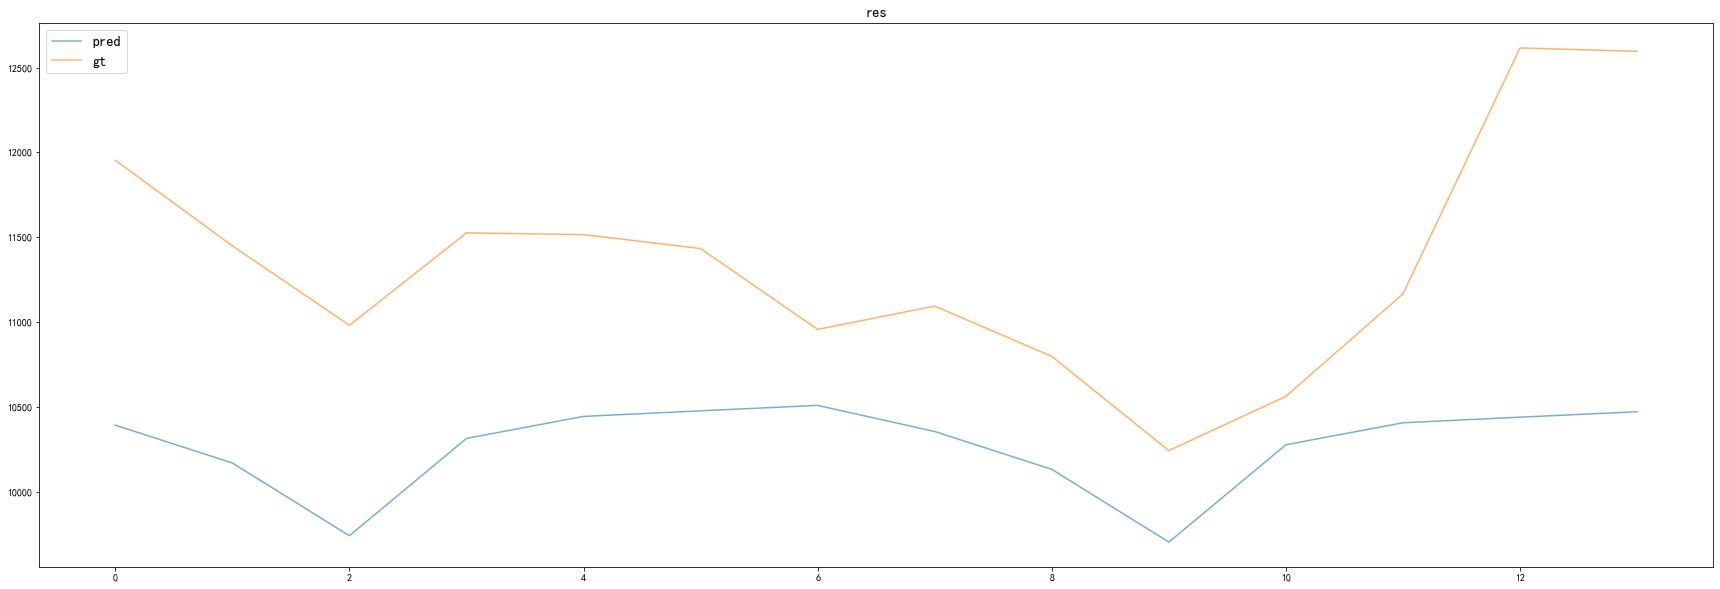
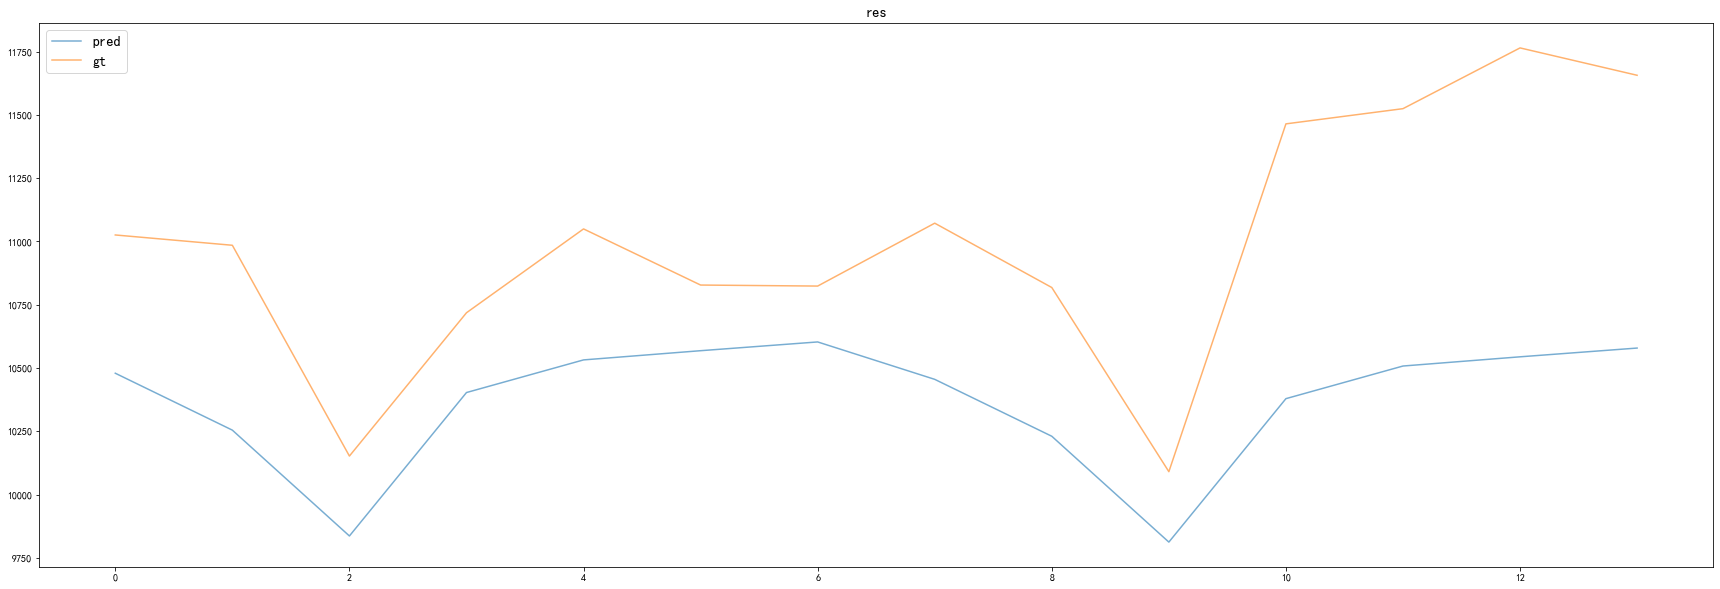
update

diff --git a/model/mytest.py b/model/mytest.py
@@ -1,9 +1,3 @@
-# -*- coding: utf-8 -*-
-"""
-Created on Sat Aug 14 20:38:27 2021
-
-@author: cty
-"""
 import os,sys
 import datetime
 import math
@@ -13,11 +7,16 @@ import numpy as np
 from matplotlib import pyplot as plt
 import joblib
 
-import optuna
-from sklearn.model_selection import train_test_split,KFold
-from sklearn.metrics import mean_squared_error,mean_absolute_error,mean_absolute_percentage_error
-from prophet import Prophet
-
+from sklearn.preprocessing import MinMaxScaler
+from sklearn.metrics import mean_squared_error,mean_absolute_percentage_error,mean_pinball_loss
+from tqdm import tqdm
+import torch
+import torch.autograd as autograd
+import torch.nn as nn
+import torch.nn.functional as F
+import torch.optim as optim
+from torch.optim.lr_scheduler import StepLR
+from torch.autograd import Variable
 import warnings
 warnings.filterwarnings("ignore")
 
@@ -33,58 +32,190 @@ warnings.filterwarnings("ignore")
 # testset=df.loc[(df['date'] >= pd.to_datetime('2022-5-31')) & (df['date'] < pd.to_datetime('2022-8-23'))]
 # df=df.loc[:,~df.columns.str.contains('Unnamed')]
 # group=df.groupby(df['date'].apply(lambda x:x.split()[0]))
-    
 
+torch.manual_seed(0)
+np.random.seed(0)
+device = torch.device("cuda" if torch.cuda.is_available() else "cpu")
+
+class LstmPyorch(nn.Module):
+    def __init__(self, fea_size, seq_len, hidden_size, num_layers, output_size, batch_size):
+        super().__init__()
+        # self.trial=trial
+        # hidden_size=self.trial.suggest_int('hidden_size', 1,20,step=1),
+        # num_layer=self.trial.suggest_int('num_layer', 1,10,step=1),        
+        self.fea_size = fea_size
+        self.seq_len=seq_len
+        self.hidden_size = hidden_size
+        self.num_layers = num_layers
+        self.output_size = output_size
+        self.num_directions = 1 # 单向LSTM
+        self.batch_size = batch_size
+        self.lstm = nn.LSTM(self.fea_size, self.hidden_size, self.num_layers, batch_first=True)
+        self.linear = nn.Linear(self.hidden_size, self.output_size)
+
+    def forward(self, x):
+        h_0 = torch.rand(self.num_directions * self.num_layers, x.shape[0], self.hidden_size).to(device)*x[0].std()+x[0].mean()
+        c_0 = torch.rand(self.num_directions * self.num_layers, x.shape[0], self.hidden_size).to(device)*x[0].std()+x[0].mean()
+        output, (hidden, cell) = self.lstm(x,(h_0,c_0)) # [16, 96, 3]
+        pred = self.linear(output)  # [16, 96, 1]
+        return pred    
+
+class LSTM():
+    
+    def __init__(self):
+        pass
+        
+    def build_model(self,x_train):
+        self.model=LstmPyorch(fea_size=x_train.shape[1],
+                         seq_len=96*14,
+                         hidden_size=5,
+                         num_layers=1,
+                         output_size=1, 
+                         batch_size=32).to(device)
+        return self.model      
+
+
+    def train(self, x_train, y_train, x_val, y_val):###df包含label
+        self.model = self.build_model(x_train)
+        # 先转换成torch能识别的dataset
+        import torch.utils.data as data
+        
+        self.scaler_x = MinMaxScaler(feature_range=(0, 1))
+        self.scaler_y = MinMaxScaler(feature_range=(0, 1))
+        x_train = self.scaler_x.fit_transform(x_train)
+        y_train = self.scaler_y.fit_transform(y_train[:,None])      
+        x_val = self.scaler_x.transform(x_val)
+        y_val = self.scaler_y.transform(y_val[:,None])
+
+        x=torch.Tensor(x_train.reshape(-1,self.model.seq_len,x_train.shape[1]))
+        y=torch.Tensor(y_train.reshape(-1,self.model.seq_len,1))
+        trainset = data.TensorDataset(x, y)
+        train_loader = data.DataLoader(dataset=trainset,
+                                       batch_size=self.model.batch_size,
+                                       shuffle=False, ##x_train已经打乱过了
+                                       num_workers=1,
+                                       drop_last=True)
+        
+        x=torch.Tensor(x_val.reshape(-1,self.model.seq_len,x_val.shape[1]))
+        y=torch.Tensor(y_val.reshape(-1,self.model.seq_len,1))        
+        valset = data.TensorDataset(x, y)
+        val_loader = data.DataLoader(dataset=valset,
+                                     batch_size=self.model.batch_size,
+                                     shuffle=False, ##x_val已经打乱过了
+                                     num_workers=1,
+                                     drop_last=True)        
+        loss_fn = nn.MSELoss()
+        optimizer = torch.optim.Adam(self.model.parameters(), lr=1e-3,
+                                     weight_decay=0)
+        # optimizer = torch.optim.SGD(self.model.parameters(), lr=args.lr,
+        #                             momentum=0.9, weight_decay=args.weight_decay)
+        # scheduler = StepLR(optimizer, step_size=50, gamma=0.1)
+        
+        for epoch in tqdm(range(1000)):
+            # 训练步骤开始
+            self.model.train()
+            for x,y in train_loader:
+                x=x.to(device)
+                y=y.to(device)
+                pred = self.model(x)
+                loss = loss_fn(pred, y)           
+                # 优化器优化模型
+                optimizer.zero_grad()
+                loss.backward()
+                optimizer.step()
+            # res=abs(pred-y)/y
+            # print('train mape:',float(1-res.mean()))
+            
+            # pred=pred.detach().cpu().numpy().reshape(-1,1)
+            # y=y.cpu().numpy().reshape(-1,1)
+            # pred=pd.DataFrame(pred)
+            # y=pd.DataFrame(y.reshape(-1))
+            # res=pd.concat([pred,y],axis=1)
+            # res.columns=['pred','gt']
+            # from my_utils.plot import plot_without_date
+            # plot_without_date(res[:600],'res',cols = ['pred','gt'])             
+
+            # scheduler.step()
+            
+            # if epoch%10==0:
+            #     # 验证步骤开始
+            #     self.model.eval()
+            #     val_mape = []
+            #     for x,y in val_loader:
+            #         pred = self.model(x)
+            #         res=abs(pred-y)/y
+            #         val_mape.append(float(1-res.mean()))
+            #     print('val mean loss:',np.mean(val_mape))
+
+    def test(self,x_test, y_test, model):   
+        self.model.eval()
+        x_test = self.scaler_x.transform(x_test)
+        import torch.utils.data as data
+        x=torch.Tensor(x_test.reshape(-1,self.model.seq_len,x_test.shape[1]))
+        y=torch.Tensor(y_test.values.reshape(-1,self.model.seq_len,1))  
+        testset = data.TensorDataset(x, y)
+        test_loader = data.DataLoader(dataset=testset,
+                                       batch_size=testset.tensors[0].shape[0], ##相当于整个batch
+                                       shuffle=False, ##x_train已经打乱过了
+                                       num_workers=1,
+                                       drop_last=False)    
+        for x,y in test_loader:
+            x=x.to(device)
+            y=y.to(device)
+            pred = self.model(x)
+            pred=pred.detach().cpu().numpy().reshape(-1,1)
+            pred=self.scaler_y.inverse_transform(pred)
+            y=y.cpu().numpy().reshape(-1,1)
+            res=abs(pred-y)/y
+            print('test mape:',float(1-res.mean()))   
+        pred=pd.DataFrame(pred)
+        y=pd.DataFrame(y.reshape(-1))
+        res=pd.concat([pred,y],axis=1)
+        res.columns=['pred','gt']
+        from my_utils.plot import plot_without_date
+        plot_without_date(res[:600],'res',cols = ['pred','gt']) 
+        self.res=res
+        
 if __name__=='__main__':
     ##项目目录加入环境变量
     project_path=os.path.dirname(os.path.dirname(__file__))
     sys.path.append(project_path)
     ####Step1:read raw data
-    np.random.seed(10)
-    
     from dataset import Dataset
     dataset=Dataset()
-    df=dataset.load_system2().data
-    from my_utils.dataprocess import points_to_days
-    df=points_to_days(df,cols=['tmp','target'])
+    # df=dataset.load_system_tang(mode='ts',y_shift=96).data
+    # df=dataset.load_wind1(mode='ts',y_shift=96).data
+    df=dataset.load_system2(mode='ts',y_shift=96*14).data
+    # df=df[['date','load','target']]
+    df['day-1']=df['load'].shift(96*1)
+    df['day-2']=df['load'].shift(96*2)
+    df['day-3']=df['load'].shift(96*3)
+    df=df.dropna()
+    # df=df.loc[96:,:]
+    # df=df[['date','ws30','target']]
+    ####Step3:有效的特征工程feature
+    # from utils.feature import date_to_timeFeatures, wd_to_sincos_wd
+    # df=date_to_timeFeatures(df)
+    # df=wd_to_sincos_wd(df,['dir_50_XXL'],delete=True)
     
-    # df=df.iloc[:64704,:]
-    # df.columns=['y','ds']
-    # trainset=df.iloc[:35040,:]
-    # testset=df.iloc[35040:,:]     
-    ####Step2:data process
-    #method1:直接插值补全，以此对比和dataclean的效果
-    # df=df.loc[:,~df.columns.str.contains('Unnamed')]
-    # df.interpolate(method="linear",axis=0,inplace=True)
-    df.rename(columns={'date':'ds','mean_target':'y'}, inplace=True)###prophet的命名要求
-    df['ds']=pd.to_datetime(df['ds'])
-    # df['ds']=df['ds']-pd.Timedelta(1,unit='d') ##nextdaydate日期要减一天
-    # df['cap'] = 80000
-    trainset=df.iloc[:-14,:] 
-    testset=df.iloc[-14:,:] ##预测最后14天
+    ####Step4: 划分数据集
+    ##要按天打乱，确保train,val,test同分布
+    from my_utils.tools import dataset_split
+    del df['date']
+    test_ratio=14/(df.shape[0]/96) ##这里由于按比例划分，小数计算不精确，导致用写13，testset才是14天
+    df=df.reset_index(drop=True)
+    trainset,valset,testset=dataset_split(df,n=96*14,ratio=[1-2*test_ratio,test_ratio,test_ratio],mode=2)
+    trainset=trainset.reset_index(drop=True)
+    valset=valset.reset_index(drop=True)
+    testset=testset.reset_index(drop=True)
     
+    y_train=trainset.pop('target')
+    x_train=trainset
+    y_val=valset.pop('target')
+    x_val=valset
+    y_test=testset.pop('target')
+    x_test=testset  
     
-    # length=int(len(df)*0.8)
-    # trainset=df.iloc[:length]
-    # testset=df.iloc[length:,:]         
-        
-    # model = Prophet(growth='logistic')
-    model = Prophet()
-    model.add_country_holidays(country_name='CN') ##增加节假日
-    model.fit(trainset)
-    future = model.make_future_dataframe(periods=14,freq='d',include_history=False)
-    # future['cap']=80000
-    # forecast = model.predict(future)
-    forecast = model.predict(future)
-    # forecast[['ds', 'yhat', 'yhat_lower', 'yhat_upper']].tail()
-    fig1 = model.plot(forecast)
-    fig2 = model.plot_components(forecast)        
-    
-    pred=forecast['yhat']
-    gt=testset['y']
-    loss=1-mean_absolute_percentage_error(gt.values, pred.values)
-    print('loss:',loss)
-    res=pd.concat([pred.reset_index(drop=True),gt.reset_index(drop=True)],axis=1)
-    res.columns=['pred','gt']
-    from my_utils.plot import plot_without_date
-    plot_without_date(res,'res',cols = ['pred','gt'])         
+    lstm=LSTM()
+    lstm.train(x_train, y_train, x_val, y_val)
+    lstm.test(x_test,y_test,lstm.model)

diff --git a/model/prophet_lstm_for_longtime.py b/model/prophet_lstm_for_longtime.py
@@ -120,7 +120,7 @@ class LSTM():
         #                             momentum=0.9, weight_decay=args.weight_decay)
         # scheduler = StepLR(optimizer, step_size=50, gamma=0.1)
         
-        for epoch in tqdm(range(300)):
+        for epoch in tqdm(range(500)):
             # 训练步骤开始
             self.model.train()
             for x,y in train_loader:
@@ -214,8 +214,8 @@ if __name__=='__main__':
     df['ds']=pd.to_datetime(df['ds'])
     # df['ds']=df['ds']-pd.Timedelta(1,unit='d') ##nextdaydate日期要减一天
     # df['cap'] = 80000
-    trainset_prophet=df.iloc[:-14,:] 
-    testset_prophet=df.iloc[-14:,:] ##预测最后14天
+    trainset_prophet=df.iloc[:-14*2,:] 
+    testset_prophet=df.iloc[-14*2:-14,:] ##test baseline是12/4~12/17号
     
     # model = Prophet(growth='logistic')
     model = Prophet()
@@ -229,7 +229,7 @@ if __name__=='__main__':
     # prophet_pred=pd.read_csv('../result/prophet_pred.csv')
     # prophet_pred=prophet_pred[['ds', 'yhat', 'yhat_lower', 'yhat_upper']]
     fig1 = model.plot(prophet_pred)
-    fig2 = model.plot_components(prophet_pred)        
+    # fig2 = model.plot_components(prophet_pred)        
     
     pred=prophet_pred['yhat']
     gt=testset_prophet['y']
@@ -259,6 +259,7 @@ if __name__=='__main__':
     prophet_pred.columns=['ds','mean_target','min_target','max_target']
     xxx.rename(columns={'mean_target':'y'}, inplace=True)
     xxxx=pd.concat([trainset_prophet,xxx],axis=0)
+    df2=df2.iloc[:-96*14,:]
     df=pd.merge(df2,xxxx,on='ds',how='left')
     df.rename(columns={'y':'mean_target'}, inplace=True)
     del df['ds']
@@ -268,8 +269,8 @@ if __name__=='__main__':
     ##要按天打乱，确保train,val,test同分布
     from my_utils.tools import dataset_split
     del df['date']
-    test_ratio=14/(df.shape[0]/96)
-    trainset,valset,testset=dataset_split(df,n=96,ratio=[0.7,0.3-test_ratio,test_ratio],mode=2)
+    test_ratio=14/(df.shape[0]/96) ##这里由于按比例划分，小数计算不精确，导致用写13，testset才是14天
+    trainset,valset,testset=dataset_split(df,n=96*14,ratio=[1-2*test_ratio,test_ratio,test_ratio],mode=2)
     trainset=trainset.reset_index(drop=True)
     valset=valset.reset_index(drop=True)
     testset=testset.reset_index(drop=True)

diff --git a/my_utils/tools.py b/my_utils/tools.py
@@ -46,9 +46,9 @@ def dataset_split(df,n,ratio=[0.7,0.2,0.1],mode=1):
     ##划分逻辑：先按组划分，计算出train，val，test分别占哪几组
     ##然后根据天数计算出每段id在df种的具体ids，并提取对应数据
     bins=int(len(df)/n) ##先按组划分
-    train_len=int(bins*ratio[0]) ##train占几组
+    test_len=int(bins*ratio[2]) ##test占几组
     val_len=int(bins*ratio[1])   ##val占几组
-    test_len=bins-train_len-val_len
+    # train_len=bins-test_len-val_len ##train占几组
     
     index=[i for i in range(bins)]
     test_id=index[-test_len:] ##test先抽最后面
